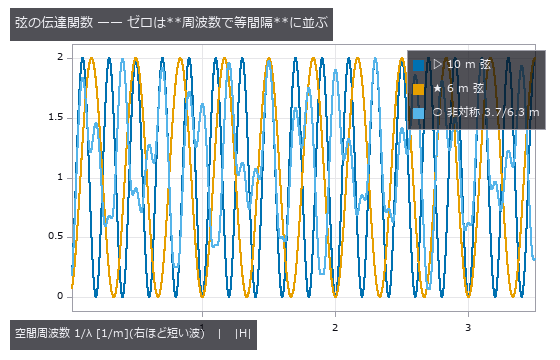
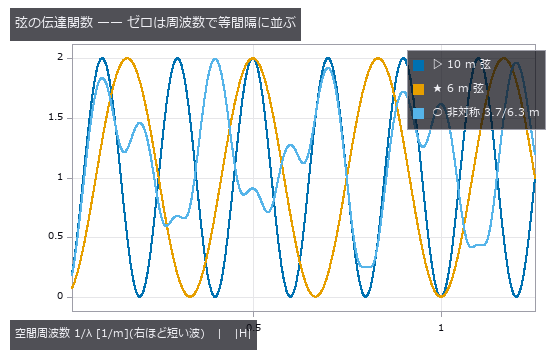
auto: poc_web_roll_periodicity.py 編集前 (2026-09-08 12:58)

Changed region(s): [[0.1214, 0.1528, 0.9714, 0.825], [0.3036, 0.0, 0.6071, 0.1222]]

diff --git a/examples/poc_datacenter_thermal_field.py b/examples/poc_datacenter_thermal_field.py
@@ -376,67 +376,72 @@ def section_cliff() -> dict:
     print("   半減間隔 d*  " + "".join("  %6.3f m " % half_spacing(h[4])
                                        for h in HOTSPOTS))
 
-    print("\n   ---- 実測(最悪位相 = ホットスポットをセルの中心に置く)----")
-    print("   間隔 d   ラック     予測    実測(雑音なし)  差     実測(σ=%.2f °C)"
-          "   床(背景の復元誤差)" % NOISE)
-    meas, meas_n, floors, diffs = {}, {}, {}, []
+    print("\n   ---- 実測(最悪位相 = ホットスポットをセルの中心に置く、最近傍補間)----")
+    print("   間隔 d   ラック     予測   幾何の実測    差    素朴な実測  超過   "
+          "床(背景+雑音)")
+    geo, naive, floors, diffs, excess = {}, {}, {}, [], []
     for d in DS:
         for hi, h in enumerate(HOTSPOTS):
-            r0 = recover(hi, d, "worst", "nearest", 0.0)
-            r1 = recover(hi, d, "worst", "nearest", NOISE)
-            assert r0["bracketed"], (d, hi)
-            meas[(d, hi)] = r0["att"]
-            meas_n[(d, hi)] = r1["att"]
-            floors[(d, hi)] = r1["floor_att"]
-            diffs.append(abs(r0["att"] - pred[d][hi]))
-            print("    %5.2f   σ=%.2f  %8.4f  %10.4f  %+8.4f  %10.4f  %12.4f"
-                  % (d, h[4], pred[d][hi], r0["att"], r0["att"] - pred[d][hi],
-                     r1["att"], r1["floor_att"]))
+            r = recover(hi, d, "worst", "nearest", NOISE)
+            assert r["bracketed"], (d, hi)
+            geo[(d, hi)] = r["geo"]
+            naive[(d, hi)] = r["naive"]
+            floors[(d, hi)] = r["floor"]
+            diffs.append(abs(r["geo"] - pred[d][hi]))
+            excess.append(r["naive"] - pred[d][hi])
+            print("    %5.2f   σ=%.2f  %8.4f %9.4f %+9.6f %9.4f %+7.4f %10.4f"
+                  % (d, h[4], pred[d][hi], r["geo"], r["geo"] - pred[d][hi],
+                     r["naive"], r["naive"] - pred[d][hi], r["floor"]))
     err = max(diffs)
-    print("\n  ★予測と実測(雑音なし・最悪位相)の差は最大 %.4f(割合)。"
-          "閉形式はここでは**外れない**\n     —— 最近傍補間は最悪位相でセルの角の"
-          "値をそのまま返し、それはちょうど d√3/2 の点だから。" % err)
-    print("  ★崖の床は雑音が決める。σ=%.2f °C の雑音は振幅 %.0f °C のラックに対して"
-          " %.4f の\n     見かけの回復を作る —— d が大きいところの「実測」は"
-          "**信号ではなく雑音**。"
-          % (NOISE, HOTSPOTS[2][5], floors[(DS[-1], 2)]))
+    print("\n  ★閉形式と「幾何だけの実測」の差は最大 %.2e —— **一致する**。"
+          "最近傍補間は最悪位相で\n     セルの角の値を返し、その角はちょうど"
+          " d√3/2 の点だから。ここは幾何の検算であって発見ではない。" % err)
+    print("  ★★**外れるのは閉形式ではなく「測り方」**。現場で測れるのは"
+          "「復元した場のピーク」\n     であって「そのラックの寄与」ではないので、"
+          "**背景の復元誤差が同じ場所に載る**。\n     素朴な実測は予測を最大 "
+          "%+.4f 超過し(d=%.2f m、σ=%.2f m)、その超過は床 %.4f と\n     ほぼ同じ"
+          " —— つまり**崖は実際より浅く見える**。"
+          % (max(excess), DS[-1], HOTSPOTS[0][4], floors[(DS[-1], 0)]))
+    print("     σ=%.2f m のラックは d=%.2f m で幾何の回復 %.6f(ほぼ消滅)なのに、"
+          "素朴に測ると\n     %.4f 残って見える。**残っているのは背景の誤差**。"
+          % (HOTSPOTS[2][4], DS[-1], geo[(DS[-1], 2)], naive[(DS[-1], 2)]))
 
-    print("\n   ---- 位相を変えると何が起きるか(d = %.2f m)----" % 0.60)
+    print("\n   ---- 位相を変えると何が起きるか(d = %.2f m、幾何の回復)----" % 0.60)
     d0 = 0.60
     print("   ラック    最悪位相(セル中心)  現場の位相(部屋の格子)  最良位相"
           "(センサ直上)")
     phase_rows = []
     for hi, h in enumerate(HOTSPOTS):
-        a = recover(hi, d0, "worst", "nearest", 0.0)["att"]
-        b = recover(hi, d0, "room", "nearest", 0.0)["att"]
-        c = recover(hi, d0, "node", "nearest", 0.0)["att"]
+        a = recover(hi, d0, "worst", "nearest", 0.0)["geo"]
+        b = recover(hi, d0, "room", "nearest", 0.0)["geo"]
+        c = recover(hi, d0, "node", "nearest", 0.0)["geo"]
         phase_rows.append((h[0], a, b, c))
         print("   σ=%.2f  %14.4f %20.4f %18.4f" % (h[4], a, b, c))
     print("  ★★**閉形式は曲線ではなく床**。ラックが格子のどこに落ちるかは"
-          "設計で決まらないので、\n     同じ d でも回復は最悪位相の値から 1.0 まで"
-          "跳ぶ。設計に使えるのは最悪位相の値だけ。")
+          "設計で決まらないので、\n     同じ d でも回復は最悪位相の値から 1.0 "
+          "(センサ直上)まで跳ぶ。設計に使えるのは\n     最悪位相の値だけ —— "
+          "「うちは平均すればこれくらい見える」は、そのラックには通じない。")
 
     figs.save_plot(
         "cliff_prediction",
         [("予測 σ=%.2f m" % HOTSPOTS[0][4], DS, [pred[d][0] for d in DS]),
-         ("実測 σ=%.2f m" % HOTSPOTS[0][4], DS, [meas[(d, 0)] for d in DS]),
-         ("予測 σ=%.2f m" % HOTSPOTS[1][4], DS, [pred[d][1] for d in DS]),
-         ("実測 σ=%.2f m" % HOTSPOTS[1][4], DS, [meas[(d, 1)] for d in DS]),
-         ("実測 σ=%.2f m(雑音つき)" % HOTSPOTS[2][4], DS,
-          [meas_n[(d, 2)] for d in DS])],
+         ("幾何の実測 σ=%.2f m" % HOTSPOTS[0][4], DS, [geo[(d, 0)] for d in DS]),
+         ("素朴な実測 σ=%.2f m" % HOTSPOTS[0][4], DS, [naive[(d, 0)] for d in DS]),
+         ("予測 σ=%.2f m" % HOTSPOTS[2][4], DS, [pred[d][2] for d in DS]),
+         ("素朴な実測 σ=%.2f m" % HOTSPOTS[2][4], DS, [naive[(d, 2)] for d in DS])],
         xlabel="センサ格子の間隔 d [m]", ylabel="回復したピークの割合",
-        title="崖 —— 先に予測 exp(-3d²/8σ²)、あとで実測",
-        caption="差は最大 %.4f。σ=%.2f m の曲線が雑音の床 %.3f で止まっている。"
-                % (err, HOTSPOTS[2][4], floors[(DS[-1], 2)]))
+        title="崖 —— 閉形式は当たる。外れるのは「ピークがどれだけ残ったか」の測り方",
+        caption="幾何の実測は予測と最大 %.1e しか違わない。素朴な実測が上に"
+                "浮くぶんが背景の復元誤差。" % err)
     figs.save_table(
         "cliff_table",
         ["間隔 d [m]"] + ["σ=%.2f 予測" % h[4] for h in HOTSPOTS]
-        + ["σ=%.2f 実測" % h[4] for h in HOTSPOTS],
+        + ["σ=%.2f 素朴な実測" % h[4] for h in HOTSPOTS],
         [["%.2f" % d] + ["%.4f" % pred[d][i] for i in range(3)]
-         + ["%.4f" % meas[(d, i)] for i in range(3)] for d in DS],
-        title="幾何の予測と実測(最悪位相、雑音なし)", col_w=110)
-    return {"pred": pred, "meas": meas, "meas_n": meas_n, "floors": floors,
-            "err": err, "phase": phase_rows}
+         + ["%.4f" % naive[(d, i)] for i in range(3)] for d in DS],
+        title="幾何の予測と、現場で測れる量(最悪位相)", col_w=130)
+    return {"pred": pred, "geo": geo, "naive": naive, "floors": floors,
+            "err": err, "excess": max(excess), "phase": phase_rows}
 
 
 # --------------------------------------------------------------------------- #

diff --git a/examples/poc_rail_corrugation.py b/examples/poc_rail_corrugation.py
@@ -204,7 +204,7 @@ def section_scene():
                      "|H| 非対称", "覚え書き"], rows,
                     title="仕込んだ凹凸と弦の伝達関数(予測)")
     if figs.enabled():
-        f = np.linspace(0.02, 3.5, 2000)          # 空間周波数 [1/m]
+        f = np.linspace(0.02, 1.25, 2000)         # 空間周波数 [1/m]
         lam = 1.0 / f
         figs.save_plot(
             "transfer",
@@ -212,9 +212,9 @@ def section_scene():
              ("6 m 弦", f, h_sym(lam, CHORD_B)),
              ("非対称 3.7/6.3 m", f, h_asym(lam))],
             xlabel="空間周波数 1/λ [1/m](右ほど短い波)", ylabel="|H|",
-            title="弦の伝達関数 —— ゼロは**周波数で等間隔**に並ぶ",
-            caption="10 m 弦のゼロは 0.2 刻み、6 m 弦は 1/3 刻み。"
-                    "両方が 0 になるのは整数 1/λ = 1, 2, 3 …(λ = 1.000/k)—— "
+            title="弦の伝達関数 —— ゼロは周波数で等間隔に並ぶ",
+            caption="10 m 弦のゼロは 0.2 刻み、6 m 弦は 1/3 刻み。両方が 0 になる"
+                    "のは 1/λ = 1(λ=1.000 m)で、以降 2, 3, … と続く —— "
                     "波長で見ると短波長ほど詰まる")
         figs.save_plot(
             "transfer_zoom",
